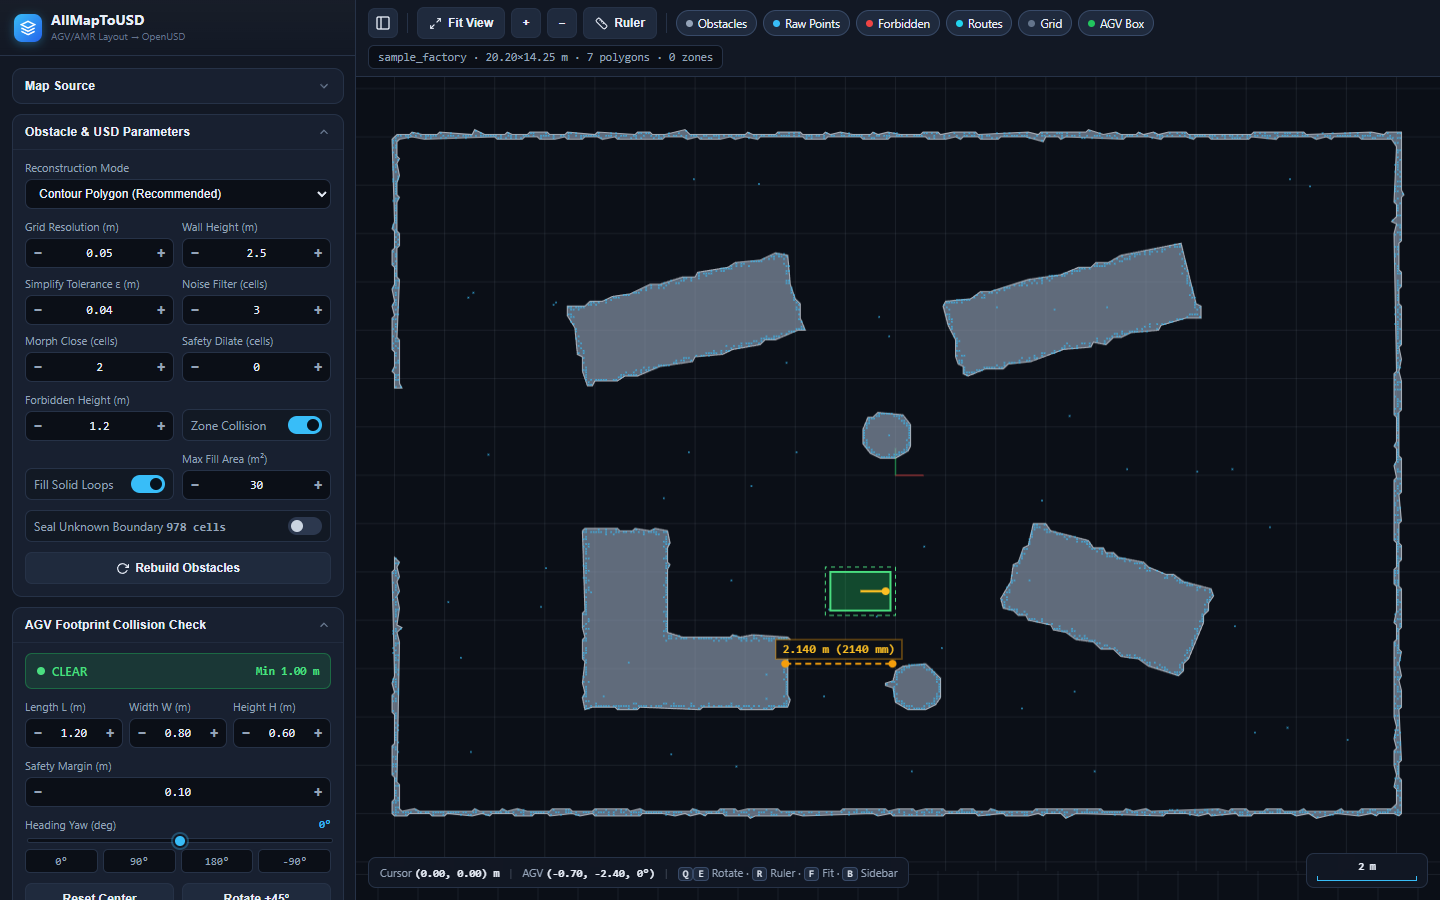
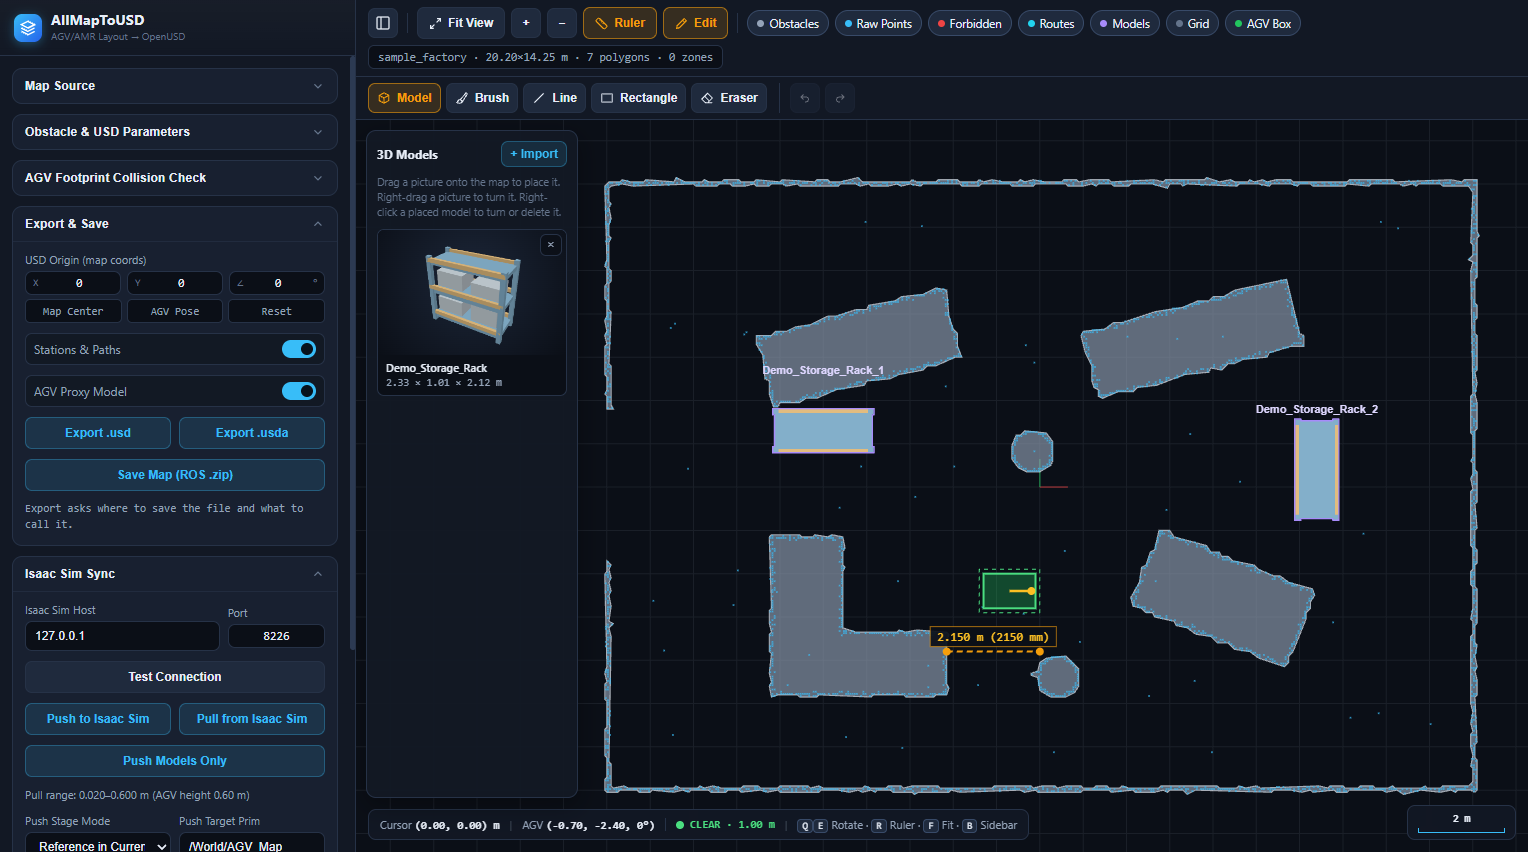
docs: refresh README and project overview

diff --git a/README.md b/README.md
@@ -1,101 +1,76 @@
 # AllMapToUSD
 
-Convert AGV/AMR navigation maps into simulation-ready OpenUSD obstacle layouts. Check aisle widths and vehicle clearance in 2D, then export a USD file or push the layout into a live NVIDIA Isaac Sim stage.
+Bring AGV/AMR maps from ROS, SEER, CAD, and image floor plans into NVIDIA Isaac Sim for testing. AllMapToUSD reconstructs obstacles as OpenUSD geometry with colliders, so you can reuse existing maps, draw custom layouts, and check vehicle clearance before running a simulation. Import and position 3D equipment on the same map, then deploy the full layout or just the equipment to an existing scene.
 
-![AllMapToUSD showing a reconstructed ROS map, AGV clearance check, and aisle measurement](docs/images/ui_overview.png)
-
-[Collision and export preview](docs/images/ui_collision_export.png) · [Isaac Sim stage preview](docs/images/isaac_sim_sample.jpg)
+![AllMapToUSD showing a reconstructed ROS map with placed storage racks, AGV clearance, and the Export & Save and Isaac Sim Sync panels](docs/images/ui_overview.png)
 
 ## Quick start
 
-1. On Windows, install Python 3.11+ and double-click **start_app.cmd**. The first launch creates a virtual environment and installs dependencies. Use `start_app.cmd --browser` to open the UI in your default browser.
-2. Drop a map into **Map Source**, or click **Sample: ROS.yaml** to try the bundled example.
-3. Use **Ruler** to measure an aisle. Under **AGV Footprint Collision Check**, enter the vehicle dimensions, drag the footprint, and rotate it with **Q** or **E** to check clearance.
-4. Export **.usd** (binary) or **.usda** (text). A **Save As** window asks where to save the file and what to call it. It suggests the map name and opens in the folder of the last export, or **exports/** the first time. You can set the output origin and heading and include stations, routes, and an AGV proxy. Export works offline.
-5. Click **Save Map (ROS .zip)** to keep your work. The zip is a standard ROS / Nav2 map (YAML + PGM) of the obstacles. It also stores the forbidden zones, stations, routes, build settings, and AGV pose. Drop it into **Map Source** to reopen the map where you left off.
+1. On Windows, install Python 3.11+ and run `start_app.cmd`. The first launch installs the dependencies. Use `start_app.cmd --browser` to open the app in your browser.
+2. In **Map Source**, drop in a map, try **Sample: ROS.yaml**, or choose **Empty Map** to draw a layout from scratch.
+3. Use **Ruler** to measure clearances and **AGV Footprint Collision Check** to test a vehicle pose. Then save an editable project, export OpenUSD, or send the layout directly to Isaac Sim.
 
-If setup fails, check **setup.log** and rerun with `start_app.cmd --force-setup`. The app writes to **app.log**. A source checkout keeps exports and settings in the project folder. A pip install keeps them in **~/AllMapToUSD**. Set `ALLMAPTOUSD_HOME` to use another folder.
+## Load or draw a test map
 
-## Edit a map
-
-Load a map or choose **Empty Map** in **Map Source** and set its width, height, and grid resolution. Open **Edit** next to **Ruler** to draw obstacle points, lines, or outlined and filled rectangles. Use **Eraser** to remove drawn or imported obstacles. Click **Eraser** again to switch to **Box Eraser**, then drag a box to erase every obstacle inside it. Click it once more to return to the brush eraser. Placed 3D models are not erased. Drag with the middle or right mouse button to pan.
-
-Each completed stroke updates the collision preview and the geometry used for USD export and Isaac Sim. With **Fill Solid Loops** enabled, imported obstacles, brush and line strokes, and rectangle outlines can form a closed boundary together. Small edited pockets with entrances too narrow for the AGV can also be filled. This check uses a disk based on the smaller AGV dimension and respects **Max Fill Area (m²)** and eraser openings. Use **Filled** for a rectangle that is solid regardless of the loop settings. Click **Rebuild Obstacles** after changing these settings or the AGV dimensions.
-
-Use the **Undo** and **Redo** icons next to **Width**, or press **Ctrl+Z** and **Ctrl+Shift+Z**. Press **R** to measure during editing and again to resume drawing. Edits live in the current app session. Use **Save Map (ROS .zip)** to keep them after closing the app or loading another map.
-
-## Place 3D models
-
-Choose **Model** in the **Edit** tools to import equipment from **.usd**, **.usda**, **.usdc**, **.usdz**, **.step**, **.stp**, or **.stl** files. In the import dialog, keep **Whole model** or pick parts from the USD hierarchy or the STEP assembly tree. Check the units and up axis. STL files have no units and default to millimetres. STEP files are read in millimetres. Each model is converted to meters, Z up, and stands on the floor.
-
-STEP import uses OpenCASCADE, a large download. `start_app.cmd` installs it during setup. If that step fails, for example because no build exists for your Python version yet, setup notes it in **setup.log** and the app still runs without STEP. A pip install needs the extra: `python -m pip install "allmaptousd[step]"`. STEP parts keep their colours but not their textures.
-
-A USD model often keeps its textures, materials (`.mdl`), or parts in separate files. To import the whole model, click **Choose Folder** and select the model's folder, or choose a **.zip** of it. A **.usdz** already holds its files. If the folder has more than one model file, pick the right one in **Main file**. The dialog lists any file the model uses that was not uploaded. Materials that come with Isaac Sim, such as `OmniPBR.mdl`, need no file.
-
-Imported models appear as 3D pictures in the tray, in the colours and textures of their materials. Drag a picture onto the map to place the model. Right-drag a picture, or Shift-drag it on a trackpad, to turn it. Drag a placed model to move it. Right-click it to set its yaw or delete it, or press **Delete**. A placed model's top-view outline always counts in the AGV collision check.
-
-USD export and Isaac Sim push copy each placed model's geometry and materials into the file under `/World/Map/Equipment`, with static colliders, so the result does not depend on the source file. The files the models use go in an `allmaptousd_assets` folder next to the USD. **Export USD** saves them side by side in the folder you chose. **Save Map** stores the models, their files, and their positions in the zip.
-
-## Supported maps
-
-| Source | Input | Options |
+| Source | Input | Settings |
 | --- | --- | --- |
-| ROS / ROS 2 Nav2 | YAML + PGM/PNG, or ZIP | Seal unknown boundaries in occupancy grids |
-| SEER Robotics | SMAP or JSON | Import obstacles, no-go zones, stations, and routes |
-| CAD / SICK SMET | DXF | Detect or override drawing units and configure layers and extrusion heights |
-| Raster floor plans / SICK exports | PNG, PGM, BMP, JPEG, TIFF | Set the image resolution in meters per pixel |
+| ROS / ROS 2 Nav2 | YAML with PGM/PNG, or ZIP | Optionally seal unknown boundaries |
+| SEER Robotics | SMAP or JSON | Obstacles, forbidden zones, stations, and routes |
+| CAD / SICK SMET | DXF | Drawing units, layer selection, and obstacle heights |
+| Raster floor plans / SICK exports | PNG, PGM, BMP, JPEG, TIFF | Meters per pixel |
 
-Use **Auto Detect** or select the format in **Map Source**. For reconstruction, **Contour Polygon** follows the obstacle outlines and **Axis-Aligned Grid Merge (AABB)** creates rectangular blocks. **Fill Solid Loops** can also fill small enclosed rooms. Lower the area limit or disable the option to keep those rooms open.
+- In **Edit**, use **Brush**, **Line**, or **Rectangle**. Brush over imported or drawn obstacles with **Eraser**, or click it again for **Box Eraser**. Completed strokes take effect immediately. Use the toolbar's undo and redo icons. Press **R** to use the ruler during editing, and press it again to resume drawing.
+- **Contour Polygon** follows obstacle outlines. **Axis-Aligned Grid Merge (AABB)** produces rectangular blocks. **Fill Solid Loops** can fill small closed regions formed by imported and drawn obstacles together. Adjust **Max Fill Area** to keep larger enclosed spaces open. Click **Rebuild Obstacles** after changing reconstruction settings.
+- Enter the AGV dimensions and safety margin, then drag the footprint and rotate it with **Q** or **E** to check clearance at a specific pose.
 
-## Isaac Sim Sync
+## Place 3D equipment
 
-1. On the Isaac Sim host, enable `isaacsim.code_editor.python_server` when launching Isaac Sim. On Windows, run `.isaac-sim.bat --enable isaacsim.code_editor.python_server` from the Isaac Sim installation directory. On Linux, use the following command.
+1. In **Edit → Model**, import STL, STEP (`.step` or `.stp`), or OpenUSD (`.usd`, `.usda`, `.usdc`, `.usdz`). Import the **Whole model** or select parts from the USD hierarchy or STEP assembly. Check the units and up axis. STL defaults to millimeters.
+2. For USDs with external textures, materials, or parts, use **Choose Folder** or upload a ZIP that preserves their relative paths. If the package contains several USDs, select the **Main file**.
+3. Right-drag a thumbnail or Shift-drag to orbit. Left-drag it onto the map to place it in top view. Drag a placed model to move it, or right-click to set **Yaw** or delete it. Its top-view footprint contributes to the clearance check.
 
-   ```bash
-   ./isaac-sim.sh --enable isaacsim.code_editor.python_server
-   ```
+The Windows launcher attempts to install OpenCASCADE for STEP. If that step fails, see `setup.log`. Other formats remain available. In a source checkout, install STEP support with `python -m pip install -e ".[step]"`.
 
-2. In **Isaac Sim Sync**, enter `127.0.0.1` for a local instance or the address of your remote Linux host. The default port is `8226`. For a remote server bound to loopback, configure key-based SSH so the app can open a tunnel. Click **Test Connection** to check the active stage.
-3. To send the canvas, select **Reference in Current USD** to mount or update the map at `/World/AGV_Map`, or select **Open as New Stage**. Click **Push to Isaac Sim** to frame the map in the active viewport. Reference mode uses the existing stage lights when available.
-4. To read the scene, set **Pull Source Prim** to `/` for the whole stage or enter a subtree such as `/World/Warehouse`. Set **Exclude Prim** to the robot's subtree if needed. Select **Colliders Only** to use enabled USD collision geometries, or keep **Visible or Collidable** to also use visible meshes and shapes.
-5. Set **Floor Elevation** and **Floor Clearance** in meters. Pull projects geometry between floor elevation plus clearance and floor elevation plus the **AGV Height** into editable occupancy cells. For example, with a floor elevation of 0 m, a clearance of 0.02 m, and an AGV height of 0.60 m, the range is 0.02–0.60 m. Click **Pull from Isaac Sim** to replace the canvas after a successful read.
+## Save a project or export USD
 
-Pull reads the active USD stage at its current timeline position, accounts for stage units and up axis, and leaves the stage untouched. It uses polygon meshes, analytic shapes such as cubes and cylinders, and geometry inside USD references and native instances. It samples their geometry rather than running a physics or LiDAR simulation. Point instancers and other unsupported geometry are reported in the sync status. The initial build uses exact grid rectangles with noise cleanup disabled to preserve the projected cells.
+| Action | Result |
+| --- | --- |
+| **Save Map (ROS .zip)** | A ROS / Nav2 occupancy map (YAML + PGM) bundled with project settings, zones, stations, routes, the AGV pose, and the models with their placement and asset files. Drop the ZIP into **Map Source** to resume editing. |
+| **Export .usd** / **Export .usda** | A simulation layout with obstacle and equipment colliders. Keep the `allmaptousd_assets/` folder beside the USD when moving an export with textures or materials. |
 
-### Add models to an existing scene
+Export works offline. Set the output origin and heading in **Export & Save** when the target scene uses a different frame. Use Isaac Sim to configure articulation, control, and sensor behavior for simulated robots.
 
-To lay out equipment in a scene that is already open in Isaac Sim, without touching its walls:
+## Sync with Isaac Sim
 
-1. Click **Pull from Isaac Sim** to load the scene as a map. Its coordinates are the scene's world coordinates in meters.
-2. Place 3D models with the **Model** edit tool.
-3. Click **Push Models Only**. The placed models are copied into the open scene under **Models Prim** (default `/World/AGV_Equipment`). Each push replaces that prim, so moving or deleting a model and pushing again updates the scene. Nothing is referenced, so saving the scene in Isaac Sim keeps the models. Their textures and materials are saved in `~/allmaptousd_maps/allmaptousd_assets` on the Isaac host, the folder where pushed maps go, and the scene points at them there by full path, so keep that folder.
+From the Isaac Sim installation directory, launch Isaac Sim with its Python Server enabled.
 
-**Model Floor** sets what the models stand on. **Auto** looks straight down under each model, from 1 m below to 0.5 m above the **Floor Elevation**, and uses the highest surface it finds there. A model with no surface under it stands at the floor elevation. Select **Floor Elevation** to put every model at that height.
+```powershell
+.\isaac-sim.bat --enable isaacsim.code_editor.python_server
+```
 
-A later **Pull from Isaac Sim** brings the pushed models back as movable models rather than obstacles, as long as their 3D models are still in the tray. This also applies to models from **Push to Isaac Sim**. A model that is no longer in the tray is pulled as an obstacle. The app refuses to replace a **Models Prim** that holds prims it did not write.
+On Linux, use `./isaac-sim.sh --enable isaacsim.code_editor.python_server`. Under **Isaac Sim Sync**, use `127.0.0.1:8226` for a local instance and click **Test Connection**. For a remote Linux host with a loopback-only server, use its host address and configure key-based SSH for the tunnel.
 
-## Command line
+| Action | Use it to |
+| --- | --- |
+| **Push to Isaac Sim** | Select **Reference in Current USD** to mount or update the full map at `/World/AGV_Map` by default. Select **Open as New Stage** to open the exported layout. |
+| **Pull from Isaac Sim** | Replace the canvas with an editable occupancy map from the active stage. Use **Pull Source Prim** and **Exclude Prim** to select the area, and **Colliders Only** to restrict the geometry. |
+| **Push Models Only** | Update the equipment in an existing scene. Pull the scene first to align coordinates, place the models on the canvas, then push them to **Models Prim** (default `/World/AGV_Equipment`). Each push replaces the previous set at that prim. |
 
-Install the package in your active Python environment with `python -m pip install -e .`, then convert the bundled sample from the project root.
+**Pull height range** runs from floor elevation plus **Floor Clearance** to floor elevation plus **AGV Height**. At floor elevation 0 m, clearance 0.02 m, and AGV height 0.60 m, the app projects geometry between 0.02 and 0.60 m onto the map. Pull uses a geometry snapshot at the current timeline position.
+
+**Model Floor** controls equipment placement. **Auto** searches for a surface under each model and falls back to **Floor Elevation**. The default directory for transferred files on the Isaac host is `~/allmaptousd_maps/`. Keep its `allmaptousd_assets/` folder with the deployment. A later pull restores equipment as movable models when their source models are still in the library. If a source model is missing, its geometry in the selected height range is projected as obstacles.
+
+## CLI and development
+
+Install from a source checkout with `python -m pip install -e .`.
 
 ```powershell
 allmaptousd formats
 allmaptousd convert src/allmaptousd/samples/sample_factory.yaml -o factory.usd
-allmaptousd convert --help
 ```
 
-## Development
+For development, install `requirements.txt` in a virtual environment and run `python -m ruff check .` and `python -m pytest`. See the [conversion pipeline](src/allmaptousd/pipeline.py) and [parser interface](src/allmaptousd/parsers/base.py) to add another format.
 
-Install the desktop and development dependencies from `requirements.txt` in a virtual environment, then run the checks.
+For Windows setup issues, check `setup.log` and retry with `start_app.cmd --force-setup`. Application logs are in `app.log`.
 
-```powershell
-python -m pip install -r requirements.txt
-python -m ruff check .
-python -m pytest
-```
-
-The shared [conversion pipeline](src/allmaptousd/pipeline.py) handles parsing, reconstruction, and export. To support another format, implement [MapParser](src/allmaptousd/parsers/base.py) and register it in [create_default_registry()](src/allmaptousd/parsers/__init__.py).
-
-## License
-
-[MIT](LICENSE)
+[MIT License](LICENSE)
